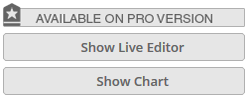
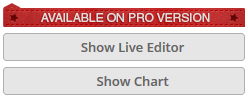
!!!update

Changed region(s): [[0.0, 0.0306, 0.9879, 0.2755]]

diff --git a/css/frame.css b/css/frame.css
@@ -519,6 +519,35 @@ div.group-content .group-description {
 .preview{
 	width: 100%;
 }
+.from-chart-btn{
+	color: #646464 !important;
+	border: medium none #646464 !important;
+	background: #E6E6E6 url("../images/from_chart.png") no-repeat scroll 7px 1px !important;
+	padding-left: 25px !important;
+	transition: all 0.3s ease 0s;
+	border: 1px solid #B0B0B0 !important;
+	box-shadow: none !important;
+	font-family: "Open Sans",sans-serif;
+	font-weight: 700;
+	margin-left: 2px !important;
+	margin-top: 2px !important;
+}
+
+ .from-chart-btn:hover{
+  	color: white !important;
+  	background: #10aecb   url("../images/from_chart.png") no-repeat scroll 7px -36px !important;
+  	transition: all 0.3s ease 0s;
+  	padding-left: 25px !important;
+  	-webkit-transition: all .3s ease;
+  	-moz-transition: all .3s ease;
+  	-ms-transition: all .3s ease;
+  	-o-transition: all .3s ease;
+  	transition: all .3s ease;
+  	margin-left: 2px !important;
+  	border: 1px solid #10aecb  !important;
+  	box-shadow: none !important;
+  	margin-top: 2px !important;
+  }
 
 .preview-btn{
 	font-family: "Open Sans",sans-serif;
